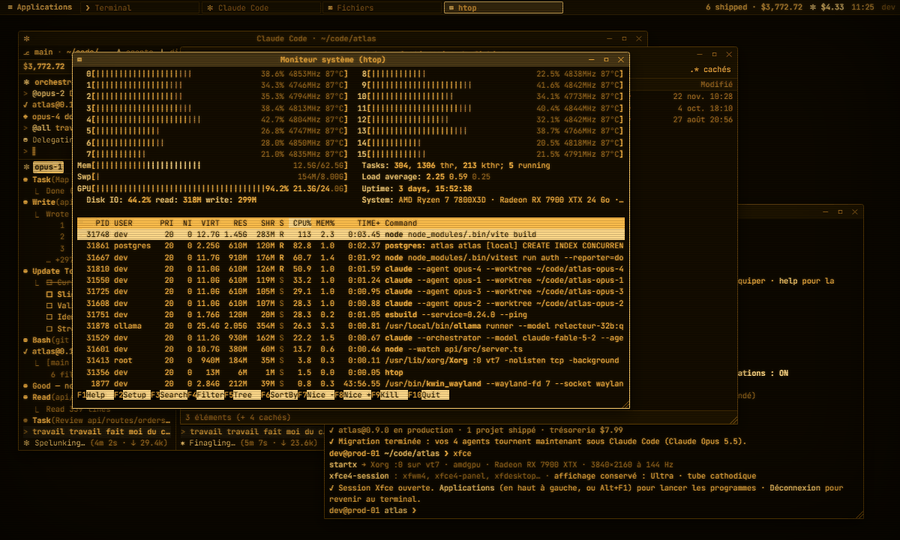
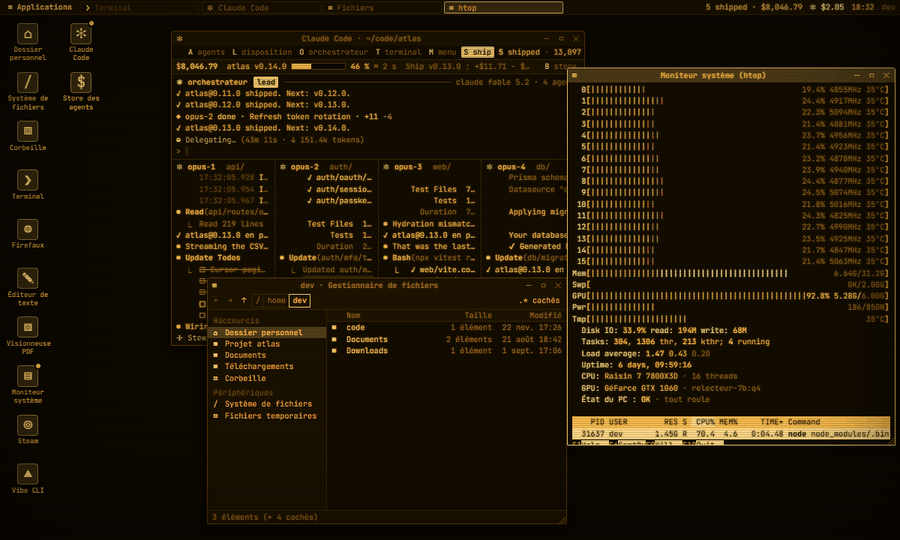
docs: le README fait un double-clic (7 951 lignes, toujours 0 relue)
- Capture du bureau refaite : les icônes à gauche, Claude Code, Thunar et
  htop dans des fenêtres. L'ancienne n'avait aucune icône, comme un vrai
  bureau de dev le lundi matin.
- Fonctionnalités et roadmap à jour. Compteur : 7 836 -> 7 951.

Claude-Session: https://claude.ai/code/session_01Ly259bA8bYa4HzpBHYH7WB

diff --git a/README.md b/README.md
@@ -6,7 +6,7 @@
   <img src="assets/badges/build.svg" alt="build : passing / failing / hallucinating / vibing">
   <img src="assets/badges/coverage.svg" alt="coverage : 98 % / 137 % / 420 % / NaN %">
   <img src="assets/badges/tests.svg" alt="tests : 0 / 0 passed">
-  <img src="assets/badges/relues.svg" alt="lignes relues : 0 / 7 836">
+  <img src="assets/badges/relues.svg" alt="lignes relues : 0 / 7 951">
   <img src="assets/badges/review.svg" alt="code review : LGTM (par l'agent)">
   <img src="assets/badges/deploy.svg" alt="deploy : vendredi 17 h">
   <br>
@@ -45,7 +45,7 @@ C'est un idle game : le jeu se joue tout seul. Comme votre carrière depuis 2025
 - **Multi-plateforme.** Démarrez sur le pire agent, puis achetez Codex et Claude Code. Chaque plateforme garde son équipe : une au premier plan, les autres en arrière-plan, si le PC suit. Avant, c'était un choix irréversible, comme un mariage. Maintenant, c'est trois factures de tokens.
 - **Progression à la sueur des tokens.** Le deuxième agent arrive en moins de 3 minutes, l'orchestrateur vers 30 minutes, Claude Code vers 1 h 35, la fin du store vers 5 h. Ce sont les chiffres d'un joueur parfait simulé, et vous n'êtes pas un joueur parfait.
 - **Mode hors ligne.** Vos agents continuent de shipper pendant votre absence, 4 h au maximum : le temps d'une réunion qui aurait pu être un mail.
-- **Bureau Linux complet.** `xfce` lance un vrai faux bureau avec fenêtres, gestionnaire de fichiers, éditeur et lecteur PDF. Vous pouvez supprimer `/bin`. Vous ne devriez pas.
+- **Bureau Linux complet.** `xfce` lance un vrai faux bureau avec fenêtres, icônes à double-cliquer, gestionnaire de fichiers, éditeur et lecteur PDF. La corbeille est toujours vide : ici, on supprime avec `rm -rf`. Vous pouvez supprimer `/bin`. Vous ne devriez pas.
 - **Hardware-in-the-loop.** Vous démarrez sur un PC patate, boîtier ouvert, posé par terre. Lancez trop d'agents et il rame, swappe, chauffe à 94 °C, puis part en kernel panic. L'agent appelle ça « un redémarrage planifié ».
 - **Kernel panic certifié.** L'écran donne la cause (« alimentation dépassée, 499 W demandés, 230 W disponibles »), une pile d'appels authentique (`tokens_burn_all`, `npm_install_universe`, `friday_deploy`), puis « Rebooting in 5 seconds.. ». Le PC redémarre sur le BIOS. Personne n'a lu la pile d'appels.
 - **Observabilité de niveau entreprise.** `htop` dit si le PC est OK, TENDU ou À TERRE, et pourquoi. `sensors` et `free` confirment. L'agent, lui, dit que tout va bien.
@@ -53,7 +53,7 @@ C'est un idle game : le jeu se joue tout seul. Comme votre carrière depuis 2025
 - **Démarrage BIOS authentique.** Nouvelle partie et Continuer allument vraiment le PC : POST, GRUB, noyau `6.11.0-friday`, puis Vibian GNU/Linux et son pingouin. Neuf secondes sur la patate. Une touche pour passer, comme tout le monde.
 - **htop, tskill, apt, npm, un terminal de bunker antiatomique…** Tout ce qu'un agent a jugé indispensable à 3 h du matin.
 - **Bouton « tout effacer ».** Paramètres, Réinitialiser la partie, deux clics. L'agent a appris à demander confirmation. Une fois.
-- **Monolithe artisanal.** 1 fichier, 7 836 lignes, 0 dépendance. Une seule exception : une police d'écriture, l'agent a insisté.
+- **Monolithe artisanal.** 1 fichier, 7 951 lignes, 0 dépendance. Une seule exception : une police d'écriture, l'agent a insisté.
 
 ## Le matériel
 
@@ -117,7 +117,7 @@ Livraison en 0 seconde, installation à chaud, garantie zéro jour. Ne faites pa
 
 ## Architecture
 
-<p align="center"><img src="assets/architecture.svg" width="100%" alt="Schéma : vous, puis l'agent IA en mode YOLO, puis index.html (7 836 lignes), puis la prod en feu. Une boucle relie la prod à l'agent : bug, « corrige », deux bugs. Sur le côté, barrés : tests, revue de code, Kubernetes, microservices, documentation, promis par l'agent et jamais livrés."></p>
+<p align="center"><img src="assets/architecture.svg" width="100%" alt="Schéma : vous, puis l'agent IA en mode YOLO, puis index.html (7 951 lignes), puis la prod en feu. Une boucle relie la prod à l'agent : bug, « corrige », deux bugs. Sur le côté, barrés : tests, revue de code, Kubernetes, microservices, documentation, promis par l'agent et jamais livrés."></p>
 
 > Architecture validée par l'agent qui l'a écrite. Revue par les pairs : le même agent, dans une autre fenêtre de contexte. Conclusion : « excellente architecture, rien à signaler ».
 
@@ -185,7 +185,7 @@ Ou, plus simple : **[jouez en ligne](https://lucv78-coder.github.io/ai-devops-ch
 |---|---|
 | <img src="assets/screen-store.png" alt="Le store, onglet Agents IA : un agent Claude Code supplémentaire, l'orchestrateur en plan mode, le terminal plus rapide, les modèles à acheter du Mistral Large 4 à 300 dollars au Claude Fable 5.2 à 300 000, puis les skills."> | <img src="assets/screen-agents.png" alt="Quatre agents Claude Code et leur orchestrateur, en plein travail."> |
 | **Le bureau Xfce** | **Mistral, un vendredi** |
-| <img src="assets/screen-xfce.png" alt="Le bureau Xfce : Claude Code, le gestionnaire de fichiers et htop dans des fenêtres."> | <img src="assets/screen-gameover.png" alt="Écran GAME OVER après un ship avec Mistral : 8 agents perdus, dignité 404."> |
+| <img src="assets/screen-xfce.png" alt="Le bureau Xfce : les icônes en colonnes à gauche (dossier personnel, système de fichiers, corbeille, terminal, Firefaux, Steam, Vibe CLI, Claude Code, store), puis Claude Code, le gestionnaire de fichiers et htop dans des fenêtres."> | <img src="assets/screen-gameover.png" alt="Écran GAME OVER après un ship avec Mistral : 8 agents perdus, dignité 404."> |
 | **Le BIOS, An Energy Star Ally** | **Vibian GNU/Linux 13 « friday »** |
 | <img src="assets/screen-bios.png" alt="Écran du BIOS VibeAward : Céléri G530, 4 Go testés, « CPU Fan Error! Press F1 » pressé automatiquement par un agent, disque dur qui gratte, alim no-name qui siffle, logo Energy Star redessiné en haut à droite."> | <img src="assets/screen-tux.png" alt="Écran de démarrage de Vibian GNU/Linux : un pingouin en ASCII avec des lunettes de soleil et VIBIAN sur le ventre, une barre de chargement et le message « Montage de ~/prompts… »."> |
 | **htop : le PC est à terre** | **matos.vibe, dans Firefaux** |
@@ -210,6 +210,7 @@ Ou, plus simple : **[jouez en ligne](https://lucv78-coder.github.io/ai-devops-ch
 - [x] Des sockets et un panier, parce qu'acheter un processeur en un clic n'était pas assez douloureux
 - [x] Plusieurs plateformes à la fois, parce qu'une seule facture de tokens, c'était pour les amateurs
 - [x] Un kernel panic, pour que le PC puisse enfin dire ce qu'il pense
+- [x] Des icônes sur le bureau, à double-cliquer comme en 2004
 - [ ] Les virus (toujours vraiment prévu, celui-là)
 - [ ] AGI
 - [ ] Relire le code (doublon ajouté par l'agent ; personne n'ose l'enlever)
@@ -219,14 +220,14 @@ Ou, plus simple : **[jouez en ligne](https://lucv78-coder.github.io/ai-devops-ch
 **Le code a-t-il été relu ?**
 Non. Question suivante.
 
-**Pourquoi un seul fichier de 7 836 lignes ?**
+**Pourquoi un seul fichier de 7 951 lignes ?**
 L'agent ne savait pas qu'on pouvait créer d'autres fichiers. On n'a pas voulu le contrarier.
 
 **Est-ce que ça scale ?**
 Ça tient dans un onglet de navigateur. C'est plus que la plupart des startups. Et maintenant, ça scale horizontalement : il suffit d'acheter une alim plus grosse.
 
 **Pourquoi le jeu démarre-t-il avec un BIOS ?**
-Charger 7 836 lignes de HTML prend 0,1 seconde. C'était trop rapide pour être crédible.
+Charger 7 951 lignes de HTML prend 0,1 seconde. C'était trop rapide pour être crédible.
 
 **Mon PC siffle, c'est normal ?**
 Dans le jeu, c'est l'alim no-name : changez-la. Dans la vraie vie, aussi.

diff --git a/CONTRIBUTING.md b/CONTRIBUTING.md
@@ -13,7 +13,7 @@ Merci de vouloir contribuer. Votre agent aussi, sans doute.
 ## Les règles
 
 - **Pas de tests.** Ils feraient échouer la CI. Si vous en ajoutez, qu'ils passent, ou qu'ils ne testent rien.
-- **Un seul fichier.** `index.html` fait 7 836 lignes. On avait annoncé 7 000 : objectif dépassé, sans relecture. Il en fera 10 000. C'est le chemin.
+- **Un seul fichier.** `index.html` fait 7 951 lignes. On avait annoncé 7 000 : objectif dépassé, sans relecture. Il en fera 10 000. C'est le chemin.
 - **Pas d'émojis.** C'est la seule règle relue par un humain. Elle est donc sacrée.
 - **Les messages de commit** doivent contenir le mot « fix », même pour une nouvelle fonctionnalité. Surtout pour une nouvelle fonctionnalité.
 
